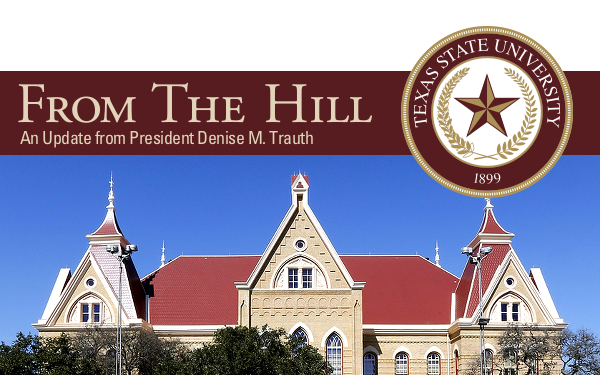
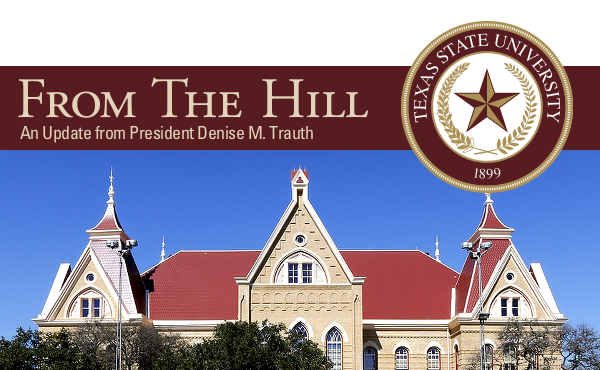
font kerning on the hero

Changed region(s): [[0.0, 0.0595, 1.0, 0.9811]]

diff --git a/index.html b/index.html
@@ -292,7 +292,7 @@
                                           <!-- Spacing -->
                                           <tr>
                                              <td align="center">
-                                    			<img width="390" border="0" height="260" alt="Marquee for All the Way" style="border-radius: 3px;display:block; border:none; outline:none; text-decoration:none;" src="images/1.jpg" class="content_image_horiz" />
+                                    			<img width="390" border="0" height="260" alt="Marquee for All the Way" style="border-radius: 2px;display:block; border:none; outline:none; text-decoration:none;" src="images/1.jpg" class="content_image_horiz" />
                                  			 </td>
                                           </tr>
                                           <tr>
@@ -307,7 +307,7 @@
                                           <!-- Spacing -->
                                           <tr>
                                              <td align="center">
-                                    			<img width="260" border="0" height="390"  alt="John and I" style="border-radius: 3px;display:block; border:none; outline:none; text-decoration:none;" src="images/2.jpg" class="content_image_vert" />
+                                    			<img width="260" border="0" height="390"  alt="John and I" style="border-radius: 2px;display:block; border:none; outline:none; text-decoration:none;" src="images/2.jpg" class="content_image_vert" />
                                  			 </td>
                                           </tr>
                                           <tr>
@@ -322,7 +322,7 @@
                                           <!-- Spacing -->
                                           <tr>
                                              <td align="center">
-                                    			<img width="390" border="0" height="260" alt="With actress Betsy Aidem" style="border-radius: 3px;display:block; border:none; outline:none; text-decoration:none;" src="images/3.jpg" class="content_image_horiz" />
+                                    			<img width="390" border="0" height="260" alt="With actress Betsy Aidem" style="border-radius: 2px;display:block; border:none; outline:none; text-decoration:none;" src="images/3.jpg" class="content_image_horiz" />
                                  			 </td>
                                           </tr>
                                           <tr>
@@ -337,7 +337,7 @@
                                           <!-- Spacing -->
                                           <tr>
                                              <td align="center">
-                                    			<img width="390" border="0" height="260" alt="With actor Bryan Cranston" style="border-radius: 3px;display:block; border:none; outline:none; text-decoration:none;" src="images/4.jpg" class="content_image_horiz" />
+                                    			<img width="390" border="0" height="260" alt="With actor Bryan Cranston" style="border-radius: 2px;display:block; border:none; outline:none; text-decoration:none;" src="images/4.jpg" class="content_image_horiz" />
                                  			 </td>
                                           </tr>
                                           <tr>
